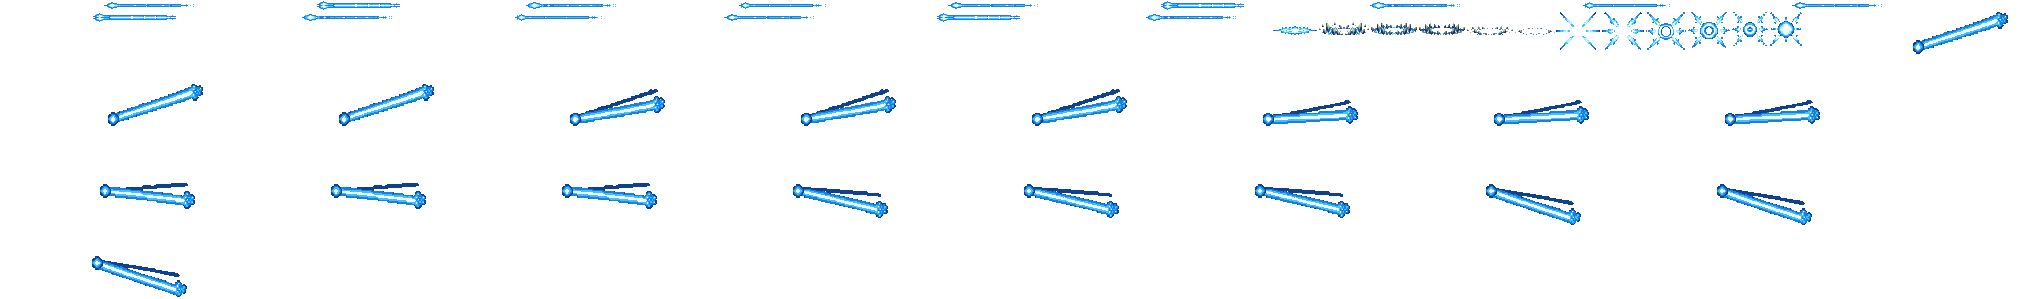
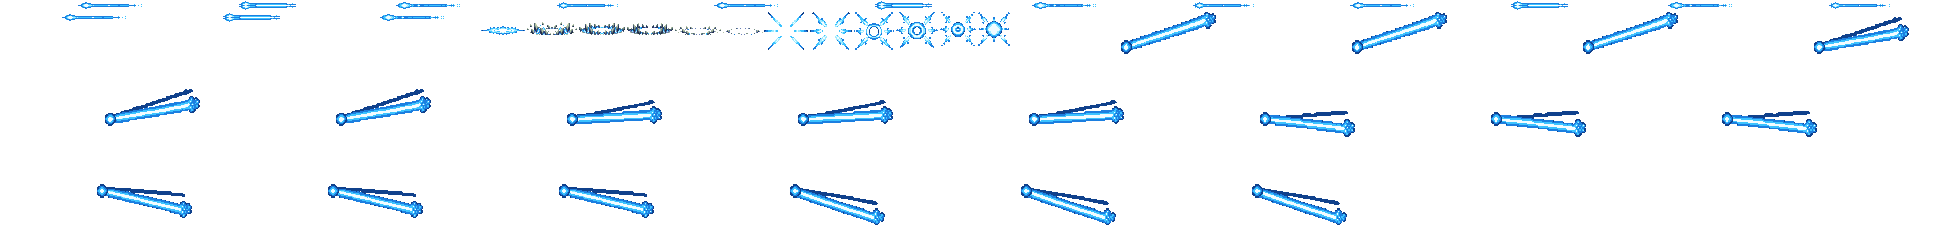
tft_sentry: laser cut to its reach, previews (beams creep like the game), Sylas copies

diff --git a/tools/art/preview_sentry.py b/tools/art/preview_sentry.py
@@ -1,0 +1,221 @@
+#!/usr/bin/env python3
+"""Preview images for the Sentry (the tft pack), built from the exported game sprites (so they also prove the sheets
+load).
+
+    python tools/art/preview_sentry.py [--out docs/preview] [--only frames|effects|skills]
+
+  tft_sentry_frames.png    every animation's dense frames (hd_, PPU 1.29, as league.dll shows them)
+  tft_sentry_effects.png   every effect animation, 3x
+  tft_sentry_skills.gif    each skill alone with its effects against Darius, timed like the kit (tools/kit/build_sentry.py,
+                           60 ticks a second), captioned in Chinese, 4x (preview_gromp.py's way): the glide; Shard Bolt
+                           (the bolt from its core, its burst); Azure Laser (q_t of waves: the laser held on the core
+                           every q_p, the burn and the cracked shield on Darius, the channel's loop frames); Rift Leap
+                           (the split flash, the shard ring left where it was, the blink back, the slowed); Prism Sweep
+                           (the charge round its core, the swept beam, the blast and the shattered shield on Darius).
+"""
+import argparse
+import os
+import sys
+
+from PIL import Image
+
+HERE = os.path.dirname(os.path.abspath(__file__))
+sys.path.insert(0, HERE)
+sys.path.insert(0, os.path.join(os.path.dirname(HERE), "kit"))
+from preview_ashe import Anim, tick  # noqa: E402
+from preview_dense import dense, dense_rows  # noqa: E402
+from preview_garen import T, contact, frames_of, load  # noqa: E402
+from preview_kindred import fx_contact  # noqa: E402
+from preview_leesin import Foe  # noqa: E402
+from preview_pyke import Me  # noqa: E402
+import preview_zoe as Z  # noqa: E402
+from preview_silco import Clip as SilcoClip, px_tick  # noqa: E402
+from build_sentry import P  # noqa: E402
+
+ROOT = Z.ROOT
+TFT = os.path.join(ROOT, "tft")
+CHAMP = os.path.join(TFT, "champions", "tft_sentry")
+FX = {n: os.path.join(TFT, "effects", n) for n in ("tft_sentry_fx", "tft_sentry_big")}
+DARIUS = os.path.join(ROOT, "league", "champions", "league_darius")
+REACH = P["atk_range"] // 1000                  # game px between its pivot and Darius's when it attacks
+CORE = (0, (5000 - P["q_by"]) // 1000)          # its core over its pivot (game px): where the bolts and beams leave
+
+
+class Clip(SilcoClip):
+    """preview_silco's clip with its own dense frames."""
+
+    def a(self, tag, dur=None, loop=False, z=4):
+        fr = list(dense(self.sp, tag, "sentry", self.z))
+        if dur and not loop and dur > sum(ms for _, ms in fr):
+            fr[-1] = (fr[-1][0], fr[-1][1] + dur - sum(ms for _, ms in fr))
+        if dur and not loop and dur < sum(ms for _, ms in fr):   # a shorter play: every frame shorter alike
+            k = dur / sum(ms for _, ms in fr)
+            fr = [(f, ms * k) for f, ms in fr]
+        an = Anim(fr, self.t, 0, 0, loop=loop, until=(self.t + dur) if dur else None)
+        an.pos = self.me.pos
+        self.body.append(an)
+        self.t = an.until
+        return an
+
+
+def scene(out, steps, gap, W=380, H=180, z=4, tail=900, x0=80):
+    """One scene (a list of steps) written to `out`."""
+    fx = {k: load(v) for k, v in FX.items()}
+    small, big = fx["tft_sentry_fx"], fx["tft_sentry_big"]
+    gy = H - 40
+    far = x0 + gap
+    d = Foe(load(DARIUS), far, gy)
+    me = Me(x0, gy)
+    c = Clip(load(CHAMP), d, me, small, big)
+    c.z = z
+    c.wait(300)
+
+    def core(t):
+        x, y = me.pos(t)
+        return x + CORE[0], y - CORE[1]
+
+    def creep(tag, when, x, y, n):
+        """A beam picture riding its projectile as in the game: it creeps 1 px a tick toward Darius (the importer drew
+        each tick's frame back by as much, so the flare holds on the core)."""
+        c.over.append(Anim(frames_of(c.big, tag), when, int(x), int(y), until=when + tick(n + 1), x1=int(x) + n + 1,
+                           y1=int(y)))
+
+    def bolt():
+        """One attack: the bolt from its core on a_rel, its burst on Darius."""
+        rel = c.t + tick(P["a_rel"] - 1)
+        x0_, y0_ = core(rel)
+        x1 = d.pos(rel)[0]
+        hit = rel + tick((x1 - x0_) * 1000.0 / P["a_speed"])
+        c.fly("a_bolt", rel, hit, x0_, x1, y0_)
+        c.on_foe(d, "a_hit", hit)
+        d.flinches.append(hit)
+        c.a("attack", tick(P["atk_dur"]))
+        c.wait(tick(P["atk_cd"] - P["atk_dur"]))
+
+    def laser():
+        """Azure Laser: from q_rel, every q_p a wave - the laser held on the core (its picture creeps 1 px a tick and is
+        drawn back by as much), the zap's burn and the cracked shield on Darius; skill, then skill_loop for the rest."""
+        t = c.t
+        t0 = t + tick(P["q_rel"] - 1)
+        waves = P["q_t"] // P["q_p"]
+        for k in range(waves):
+            w = t0 + tick(k * P["q_p"])
+            x, y = core(w)
+            creep("q_beam", w, x, y, P["q_p"])
+            c.on_foe(d, "q_hit", w + tick(2))
+            d.flinches.append(w + tick(2))
+        c.on_foe(d, "q_shred", t0, until=t0 + tick(P["q_t"] + P["q_hold"]))
+        c.a("skill", tick(P["q_anim"]))
+        c.a("skill_loop", t0 + tick(P["q_t"]) - c.t, loop=True)
+        return c.t
+
+    def leap():
+        """Rift Leap: the split flash on it and the shard ring where it stands, the slowed Darius, the blink back on
+        e_rel (MoveBack e_back x e_back_t)."""
+        t = c.t
+        x, y = me.pos(t)
+        c.on_me("e_split", t)
+        c.at_spot("e_ring", t, x, y + 11, sheet=c.big)
+        c.on_foe(d, "e_slow", t, until=t + tick(P["e_hold"]))
+        b0 = t + tick(P["e_rel"] - 1)
+        b1 = b0 + tick(P["e_back_t"])
+        me.moves.append((b0, b1, x, x - P["e_back"] * P["e_back_t"] / 1000))
+        c.a("skill2", tick(P["e_dur"]))
+        return t + tick(P["e_hold"])
+
+    def sweep():
+        """Prism Sweep: the charge round its core, the swept beam on r_rel (held on the core), the blast and the
+        shattered shield on Darius."""
+        t = c.t
+        rel = t + tick(P["r_rel"] - 1)
+        c.on_me("r_open", t, sheet=c.big)
+        x, y = core(rel)
+        creep("r_sweep", rel, x, y, 20)
+        c.on_foe(d, "r_hit", rel + tick(6))
+        d.flinches.append(rel + tick(6))
+        c.on_foe(d, "r_shred", rel + tick(6), until=rel + tick(6 + P["r_hold"]))
+        c.a("ult", tick(P["r_dur"]))
+        return rel + tick(6 + P["r_hold"])
+
+    for step in steps:
+        if step == "walk_in":
+            xa = me.pos(c.t)[0]
+            t0 = c.t
+            t1 = t0 + abs((far - REACH) - xa) / px_tick(P["ms"])
+            c.a("run", t1 - t0, loop=True)
+            me.moves.append((t0, t1, xa, far - REACH))
+        elif step == "attack":
+            bolt()
+            bolt()
+        elif step == "q":
+            end = laser()
+            c.wait(max(0, end + 300 - c.t))
+        elif step == "e":
+            end = leap()
+            c.wait(max(0, end + 200 - c.t))
+        elif step == "r":
+            end = sweep()
+            c.wait(max(0, end + 200 - c.t))
+    c.wait(tail)
+    return c.render(out, W, H, c.t, z)
+
+
+# each skill alone: (caption, steps, Darius's distance, canvas height)
+SCENES = [("移动：两块石头前倾着飘过去", ["walk_in"], 220, 170),
+          ("普攻 碎光弹：往上一抬、往前一倾，蓝核射出光弹", ["attack"], REACH, 180),
+          ("技能1 蔚蓝激光：引导 2.5 秒激光，每 0.25 秒一下伤害，敌人头上裂开的护盾 = 魔抗被削（青霸符：引导时大招冷却缩短）",
+           ["q"], REACH, 180),
+          ("技能2 裂石跃迁：两块石头裂开，原地留一圈碎水晶减速敌人，自己往后闪开", ["e"], 40, 180),
+          ("大招 棱镜扫射：两块石头张成 V 字，蓝核蓄力，光柱从上往下扫过前方，魔抗大降", ["r"], REACH, 200)]
+
+
+def skills(out, z=4):
+    """Every skill alone with its effects, captioned, one GIF."""
+    import tempfile
+    from PIL import ImageDraw, ImageFont, ImageSequence
+    font = ImageFont.truetype("C:/Windows/Fonts/msyh.ttc", 16)
+    tmp = tempfile.mkdtemp()
+    frames = []
+    for k, (cap, steps, gap, h) in enumerate(SCENES):
+        path = os.path.join(tmp, f"s{k}.gif")
+        scene(path, steps, gap, H=h, z=z, x0=80 if "e" not in steps else 140)
+        for f in ImageSequence.Iterator(Image.open(path)):
+            frames.append((cap, f.convert("RGB").copy(), f.info.get("duration", 40)))
+    W = max(f.width for _, f, _ in frames)
+    H = max(f.height for _, f, _ in frames) + 26
+    out_frames = []
+    for cap, f, ms in frames:
+        img = Image.new("RGB", (W, H), (40, 40, 40))
+        img.paste(f, (0, 26 + H - 26 - f.height))
+        ImageDraw.Draw(img).text((6, 3), cap, fill=(240, 240, 240), font=font)
+        out_frames.append((img, ms))
+    sample = Image.new("RGB", (W, H * 8))
+    for i, (img, _) in enumerate(out_frames[::max(1, len(out_frames) // 8)][:8]):
+        sample.paste(img, (0, i * H))
+    pal = sample.quantize(colors=255, method=Image.Quantize.MEDIANCUT, dither=Image.Dither.NONE)
+    q = [img.quantize(palette=pal, dither=Image.Dither.NONE) for img, _ in out_frames]
+    q[0].save(T.long_path(out), save_all=True, append_images=q[1:], duration=[int(ms) for _, ms in out_frames], loop=0)
+    return len(q), round(sum(ms for _, ms in out_frames) / 1000, 1)
+
+
+def main():
+    ap = argparse.ArgumentParser(description=__doc__, formatter_class=argparse.RawDescriptionHelpFormatter)
+    ap.add_argument("--out", default=os.path.join(ROOT, "docs", "preview"))
+    ap.add_argument("--only", choices=["frames", "effects", "skills"])
+    args = ap.parse_args()
+    os.makedirs(T.long_path(args.out), exist_ok=True)
+    if args.only in (None, "frames"):
+        s = load(CHAMP)
+        print("frames", contact(dense_rows(s), os.path.join(args.out, "tft_sentry_frames.png"), z=1))
+    if args.only in (None, "effects"):
+        rows = []
+        for name, path in FX.items():
+            sp = load(path)
+            rows += [(sp, t["name"], f"{name[11:]}:{t['name']}") for t in sp.tags]
+        print("effects", fx_contact(rows, os.path.join(args.out, "tft_sentry_effects.png")))
+    if args.only in (None, "skills"):
+        print("skills frames/seconds", skills(os.path.join(args.out, "tft_sentry_skills.gif")))
+
+
+if __name__ == "__main__":
+    main()

diff --git a/tools/art/import_sentry_fx.py b/tools/art/import_sentry_fx.py
@@ -61,6 +61,8 @@ FLY = (0, 0)                    # a projectile's own point
 SOLES = (0, 11)                 # on the ground under a unit (or under its own pivot)
 MS = 1000 / 60                  # one tick
 BEAM_FLARE = 4                  # q_beam's flare middle, px from the cell's left edge (the prompt)
+BEAM_LEN = (40, 26)             # q_beam cut to its first 40 and last 26 columns: 66 px, Azure Laser's reach (q_range 65000
+                                # from the core on its pivot), so it ends on a target at range instead of 25 px past it
 SWEEP_FLARE = (5, 35)           # r_sweep's flare middle in its 100 x 70 cell (the prompt)
 SWEEP_TICKS = 3                 # ticks each swept beam shows (6 x 3 = 18 ticks = r_rel's frame showing r_blast)
 seq = J.seq
@@ -159,6 +161,8 @@ def cells(name, m):
     if a.shape[0] != h or a.shape[1] != w * e["frames"]:
         sys.exit(f"{name}: sheet {a.shape[1]}x{a.shape[0]} is not {e['frames']} cells of {w}x{h}")
     out = [a[:, k * w:(k + 1) * w].copy() for k in range(e["frames"])]
+    if name == "q_beam":
+        out = [np.concatenate([c[:, :BEAM_LEN[0]], c[:, -BEAM_LEN[1]:]], axis=1) for c in out]
     for k, c in enumerate(out):
         if name != "r_sweep":
             flip = c[::-1] if name in FLYING else c[:, ::-1]
